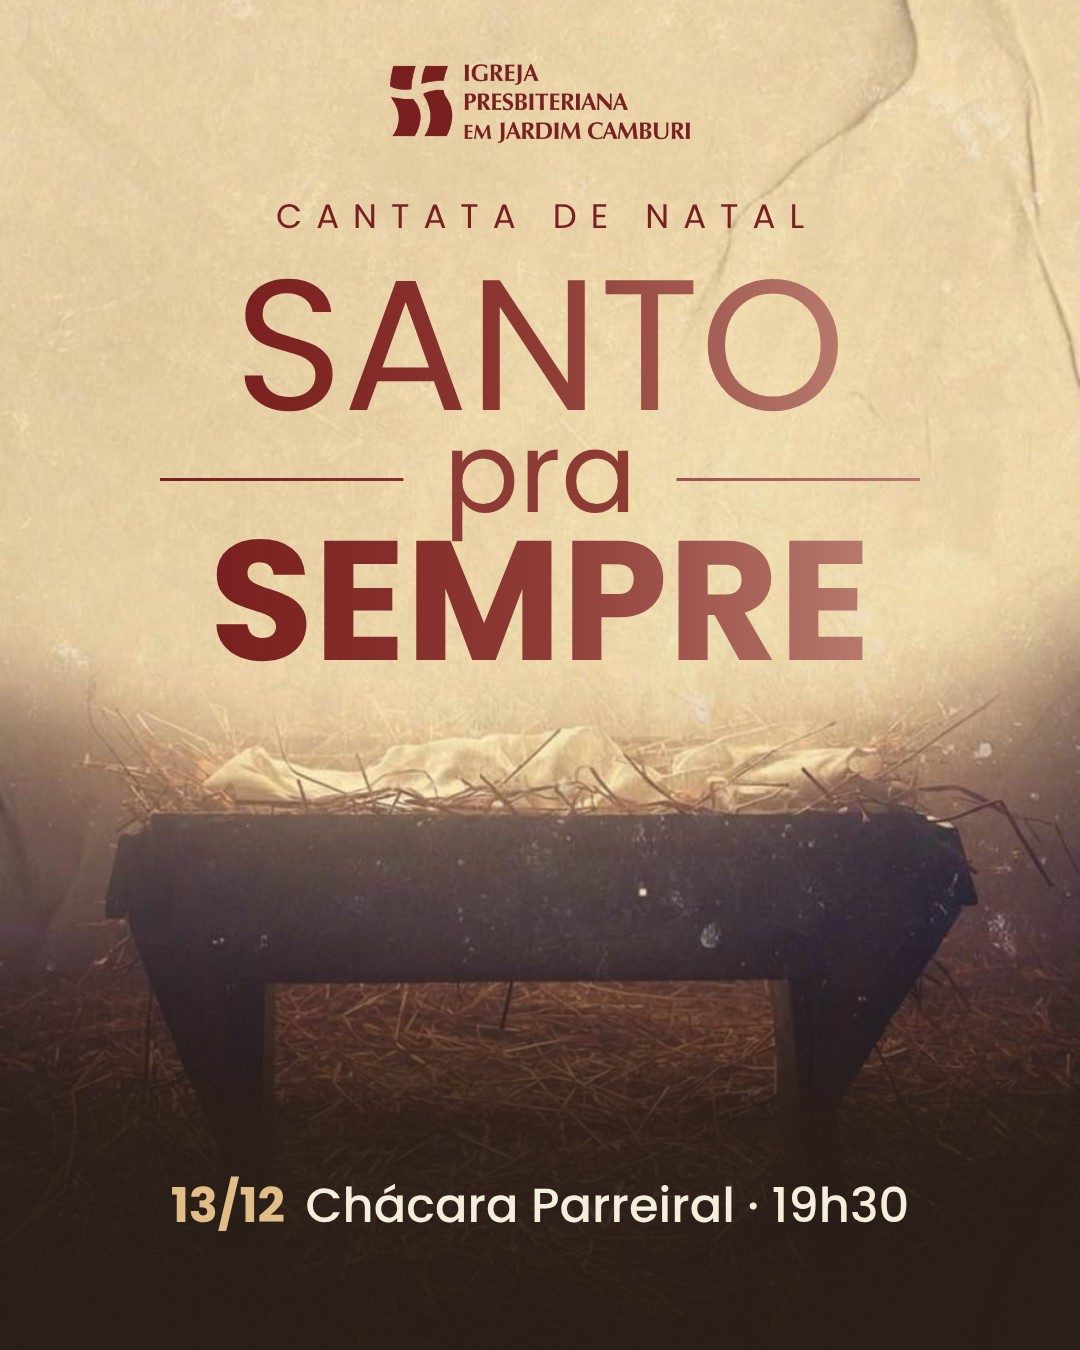
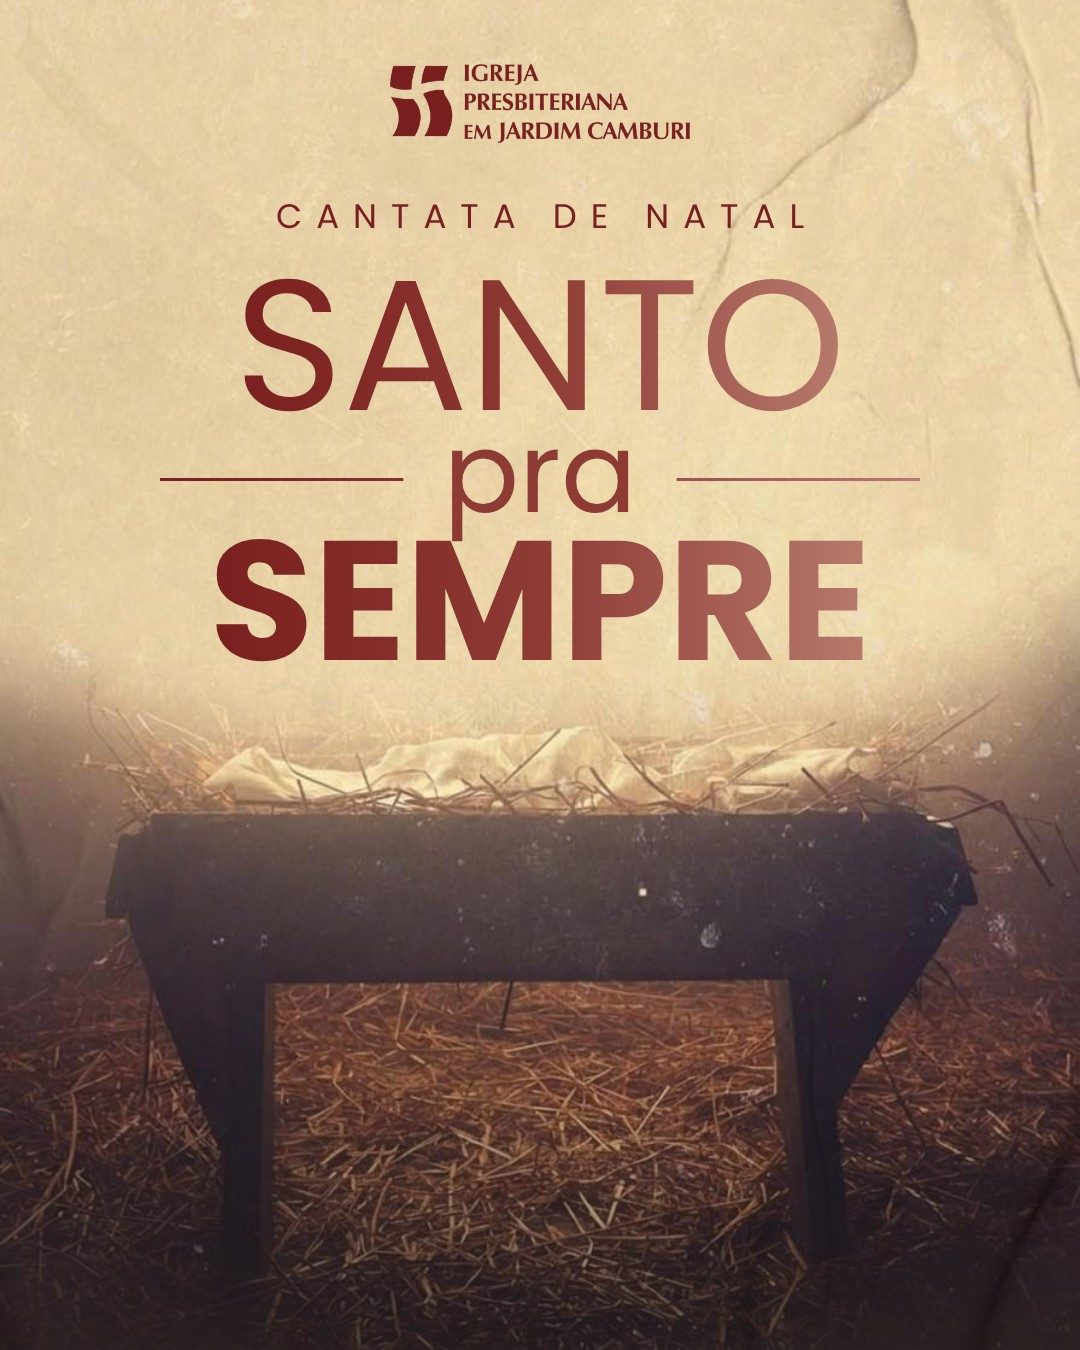
Cantata: cartazes do site sem a linha de data e local
A data, o horário e o local já aparecem no texto ao lado (página inicial) e no dia da agenda.
- Página inicial: cartaz em HTML sem a linha "13/12 Chácara Parreiral · 19h30" e com a faixa escura de baixo mais suave
- Agenda: arte regerada do mesmo jeito (cantata-santo-pra-sempre.jpg?v=2)
- site.css?v=5, agenda.js?v=11

Claude-Session: https://claude.ai/code/session_01B9S5C775PN7GXxGCqBNZap

Changed region(s): [[0.0, 0.7156, 1.0, 0.9644]]

diff --git a/assets/css/site.css b/assets/css/site.css
@@ -381,7 +381,7 @@ a.cartao:hover .icone { transform: scale(1.08) rotate(-4deg); }
 /* Cartaz da Cantata em HTML/CSS (texto de verdade sobre a foto da manjedoura). Medidas em cqw = % da largura do cartaz */
 .cartaz-natal { container-type: inline-size; position: relative; display: flex; flex-direction: column; align-items: center; width: min(100%, 300px); aspect-ratio: 4 / 5; border-radius: 12px; overflow: hidden; text-decoration: none; font-family: 'Poppins', sans-serif; color: #7A1F1F; background: #E9DCC0 url(/assets/img/natal-fundo.jpg) center bottom / cover no-repeat; box-shadow: 0 18px 40px rgba(0,0,0,.45); transition: transform .4s var(--ease); }
 .cartaz-natal:hover { transform: translateY(-4px) rotate(-1deg); }
-.cartaz-natal::after { content: ""; position: absolute; inset: auto 0 0; height: 31%; background: linear-gradient(rgba(42,30,23,0), rgba(42,30,23,.88) 45%, rgba(42,30,23,.97)); }
+.cartaz-natal::after { content: ""; position: absolute; inset: auto 0 0; height: 31%; background: linear-gradient(rgba(42,30,23,0), rgba(42,30,23,.55)); }
 .cn-logo { margin-top: 5.9cqw; width: 27.8cqw; aspect-ratio: 1054 / 278; background: #7A1F1F; -webkit-mask: url(/assets/img/logo-ipjc.png) center / contain no-repeat; mask: url(/assets/img/logo-ipjc.png) center / contain no-repeat; }
 .cn-sobre { margin-top: 4.2cqw; font-size: 3.15cqw; letter-spacing: 1.3cqw; text-transform: uppercase; line-height: 1; padding-left: 1.3cqw; }
 .cn-titulo { display: flex; flex-direction: column; align-items: center; margin-top: 2cqw; line-height: .95; width: 100%; }
@@ -390,8 +390,6 @@ a.cartao:hover .icone { transform: scale(1.08) rotate(-4deg); }
 .cn-pra { display: flex; align-items: center; gap: 3.7cqw; font-size: 10.4cqw; font-weight: 400; text-transform: none !important; width: 70.4cqw; margin: -1.6cqw 0 -1.2cqw; }
 .cn-pra i { flex: 1; height: max(1px, .28cqw); background: currentColor; background: linear-gradient(90deg, #7A1F1F, #B87A6E); }
 .cn-sempre { font-size: 15.7cqw; font-weight: 700; }
-.cn-data { position: absolute; z-index: 1; left: 0; right: 0; bottom: 9.5cqw; text-align: center; font-size: 4.4cqw; font-weight: 500; color: #F6EEDD; white-space: nowrap; }
-.cn-data b { font-weight: 700; color: #E2BE86; margin-right: .5em; }
 .destaque.cartaz .botoes { display: flex; flex-wrap: wrap; gap: 12px; }
 .btn-dourado { background: #E2BE86; color: #2A1E17; }
 .btn-dourado:hover { background: #F6EEDD; color: #2A1E17; }

diff --git a/index.html b/index.html
@@ -14,9 +14,9 @@
 <link rel="preconnect" href="https://fonts.googleapis.com">
 <link rel="preconnect" href="https://fonts.gstatic.com" crossorigin>
 <link href="https://fonts.googleapis.com/css2?family=Fraunces:ital,opsz,wght@0,9..144,400;0,9..144,600;1,9..144,400&family=Open+Sans:wght@400;600;700;800&family=Poppins:wght@400;500;700&display=swap" rel="stylesheet">
-<link rel="stylesheet" href="/assets/css/site.css?v=4">
+<link rel="stylesheet" href="/assets/css/site.css?v=5">
 <script src="/assets/js/site.js?v=2" defer></script>
-<script src="/assets/js/agenda.js?v=10" defer></script>
+<script src="/assets/js/agenda.js?v=11" defer></script>
 <script type="application/ld+json">
 {
   "@context": "https://schema.org",
@@ -82,12 +82,11 @@
           </div>
         </div>
         <div class="destaque-arte">
-          <!-- Cartaz feito em HTML/CSS: para mudar data ou local, edite o texto abaixo -->
-          <a class="cartaz-natal" href="https://natal.ipjc.org.br/?ref=chacara-destaque" target="_blank" rel="noopener" aria-label="Cantata de Natal Santo pra Sempre: 13 de dezembro, Chácara Parreiral, 19h30">
+          <!-- Cartaz feito em HTML/CSS (data e local ficam no texto ao lado) -->
+          <a class="cartaz-natal" href="https://natal.ipjc.org.br/?ref=chacara-destaque" target="_blank" rel="noopener" aria-label="Cantata de Natal Santo pra Sempre">
             <span class="cn-logo"></span>
             <span class="cn-sobre">Cantata de Natal</span>
             <span class="cn-titulo"><span class="cn-santo">Santo</span><span class="cn-pra"><i></i>pra<i></i></span><span class="cn-sempre">Sempre</span></span>
-            <span class="cn-data"><b>13/12</b> Chácara Parreiral · 19h30</span>
           </a>
         </div>
       </div>

diff --git a/eventos/index.html b/eventos/index.html
@@ -10,9 +10,9 @@
 <link rel="preconnect" href="https://fonts.googleapis.com">
 <link rel="preconnect" href="https://fonts.gstatic.com" crossorigin>
 <link href="https://fonts.googleapis.com/css2?family=Fraunces:ital,opsz,wght@0,9..144,400;0,9..144,600;1,9..144,400&family=Open+Sans:wght@400;600;700;800&display=swap" rel="stylesheet">
-<link rel="stylesheet" href="/assets/css/site.css?v=4">
+<link rel="stylesheet" href="/assets/css/site.css?v=5">
 <script src="/assets/js/site.js?v=2" defer></script>
-<script src="/assets/js/agenda.js?v=10" defer></script>
+<script src="/assets/js/agenda.js?v=11" defer></script>
 <style>
   :root { --c-culto: #BE1E2D; --c-escola: #2E6A9E; --c-oracao: #3F6005; --c-especial: #D9822B; }
   .agenda-wrap { max-width: 920px; margin: 0 auto; }

diff --git a/assets/js/agenda.js b/assets/js/agenda.js
@@ -33,7 +33,7 @@ const EVENTOS_ESPECIAIS = [
     ] },
   { data: '2026-12-13', titulo: 'Cantata de Natal “Santo pra Sempre”', hora: '19h30', sub: 'No nosso templo · Aberta à comunidade: traga um convidado', substitui: 'Culto de Adoração',
     cancela: { 'Escola Bíblica Dominical': 'Excepcionalmente neste dia não haverá EBD, por causa da preparação do coral. Esperamos você na Cantata, às 19h30!' },
-    link: 'https://natal.ipjc.org.br/?ref=site-chacara', arte: '/assets/img/cantata-santo-pra-sempre.jpg', duracao: 60,
+    link: 'https://natal.ipjc.org.br/?ref=site-chacara', arte: '/assets/img/cantata-santo-pra-sempre.jpg?v=2', duracao: 60,
     resumo: {
       sobretitulo: 'O tema',
       titulo: 'O Santo deitado numa manjedoura',

diff --git a/marca/index.html b/marca/index.html
@@ -12,7 +12,7 @@
 <link rel="preconnect" href="https://fonts.googleapis.com">
 <link rel="preconnect" href="https://fonts.gstatic.com" crossorigin>
 <link href="https://fonts.googleapis.com/css2?family=Fraunces:ital,opsz,wght@0,9..144,400;0,9..144,600;1,9..144,400&family=Open+Sans:wght@400;600;700;800&display=swap" rel="stylesheet">
-<link rel="stylesheet" href="/assets/css/site.css?v=4">
+<link rel="stylesheet" href="/assets/css/site.css?v=5">
 <style>
   body { background: var(--videira-profunda); min-height: 100vh; }
   .kit-pagina { max-width: 520px; margin: 0 auto; padding: 28px 16px calc(28px + env(safe-area-inset-bottom)); }

diff --git a/pix/index.html b/pix/index.html
@@ -12,7 +12,7 @@
 <link rel="preconnect" href="https://fonts.googleapis.com">
 <link rel="preconnect" href="https://fonts.gstatic.com" crossorigin>
 <link href="https://fonts.googleapis.com/css2?family=Fraunces:ital,opsz,wght@0,9..144,400;0,9..144,600;1,9..144,400&family=Open+Sans:wght@400;600;700;800&display=swap" rel="stylesheet">
-<link rel="stylesheet" href="/assets/css/site.css?v=4">
+<link rel="stylesheet" href="/assets/css/site.css?v=5">
 <style>
   body { background: var(--videira-profunda); min-height: 100vh; }
   .pix-pagina { max-width: 440px; margin: 0 auto; padding: 20px 16px calc(28px + env(safe-area-inset-bottom)); }

diff --git a/identidade/index.html b/identidade/index.html
@@ -11,7 +11,7 @@
 <link rel="preconnect" href="https://fonts.googleapis.com">
 <link rel="preconnect" href="https://fonts.gstatic.com" crossorigin>
 <link href="https://fonts.googleapis.com/css2?family=Fraunces:ital,opsz,wght@0,9..144,400;0,9..144,600;1,9..144,400&family=Open+Sans:wght@400;600;700;800&display=swap" rel="stylesheet">
-<link rel="stylesheet" href="/assets/css/site.css?v=4">
+<link rel="stylesheet" href="/assets/css/site.css?v=5">
 <script src="/assets/js/site.js?v=2" defer></script>
 <style>
   .indice { display: flex; flex-wrap: wrap; gap: 8px; margin-top: 28px; }

diff --git a/ministerios/index.html b/ministerios/index.html
@@ -10,7 +10,7 @@
 <link rel="preconnect" href="https://fonts.googleapis.com">
 <link rel="preconnect" href="https://fonts.gstatic.com" crossorigin>
 <link href="https://fonts.googleapis.com/css2?family=Fraunces:ital,opsz,wght@0,9..144,400;0,9..144,600;1,9..144,400&family=Open+Sans:wght@400;600;700;800&display=swap" rel="stylesheet">
-<link rel="stylesheet" href="/assets/css/site.css?v=4">
+<link rel="stylesheet" href="/assets/css/site.css?v=5">
 <script src="/assets/js/site.js?v=2" defer></script>
 <style>
   .ministerio { scroll-margin-top: calc(var(--header-h) + 24px); }

diff --git a/natal2026/index.html b/natal2026/index.html
@@ -10,7 +10,7 @@
 <link rel="preconnect" href="https://fonts.googleapis.com">
 <link rel="preconnect" href="https://fonts.gstatic.com" crossorigin>
 <link href="https://fonts.googleapis.com/css2?family=Fraunces:ital,opsz,wght@0,9..144,400;0,9..144,600;1,9..144,400&family=Open+Sans:wght@400;600;700;800&display=swap" rel="stylesheet">
-<link rel="stylesheet" href="/assets/css/site.css?v=4">
+<link rel="stylesheet" href="/assets/css/site.css?v=5">
 <script src="/assets/js/site.js?v=2" defer></script>
 <style>
   .pagina-topo.natal { background: var(--uva-escura); }

diff --git a/404.html b/404.html
@@ -10,7 +10,7 @@
 <link rel="preconnect" href="https://fonts.googleapis.com">
 <link rel="preconnect" href="https://fonts.gstatic.com" crossorigin>
 <link href="https://fonts.googleapis.com/css2?family=Fraunces:ital,opsz,wght@0,9..144,400;0,9..144,600;1,9..144,400&family=Open+Sans:wght@400;600;700;800&display=swap" rel="stylesheet">
-<link rel="stylesheet" href="/assets/css/site.css?v=4">
+<link rel="stylesheet" href="/assets/css/site.css?v=5">
 <script src="/assets/js/site.js?v=2" defer></script>
 </head>
 <body>

diff --git a/contato/index.html b/contato/index.html
@@ -10,7 +10,7 @@
 <link rel="preconnect" href="https://fonts.googleapis.com">
 <link rel="preconnect" href="https://fonts.gstatic.com" crossorigin>
 <link href="https://fonts.googleapis.com/css2?family=Fraunces:ital,opsz,wght@0,9..144,400;0,9..144,600;1,9..144,400&family=Open+Sans:wght@400;600;700;800&display=swap" rel="stylesheet">
-<link rel="stylesheet" href="/assets/css/site.css?v=4">
+<link rel="stylesheet" href="/assets/css/site.css?v=5">
 <script src="/assets/js/site.js?v=2" defer></script>
 </head>
 <body>

diff --git a/contribua/index.html b/contribua/index.html
@@ -10,7 +10,7 @@
 <link rel="preconnect" href="https://fonts.googleapis.com">
 <link rel="preconnect" href="https://fonts.gstatic.com" crossorigin>
 <link href="https://fonts.googleapis.com/css2?family=Fraunces:ital,opsz,wght@0,9..144,400;0,9..144,600;1,9..144,400&family=Open+Sans:wght@400;600;700;800&display=swap" rel="stylesheet">
-<link rel="stylesheet" href="/assets/css/site.css?v=4">
+<link rel="stylesheet" href="/assets/css/site.css?v=5">
 <script src="/assets/js/site.js?v=2" defer></script>
 </head>
 <body>
